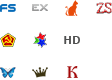
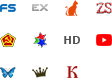
youtube pic

Changed region(s): [[0.8571, 0.425, 1.0, 0.575]]

diff --git a/styles.css b/styles.css
@@ -247,7 +247,10 @@ body {
 }
 
 .icon-zserialstv {
-    background-position: -96px 0
+    background-position: -96px 0;
+}
+.icon-youtube {
+    background-position: -96px -32px;
 }
 
 .icon-eye {
